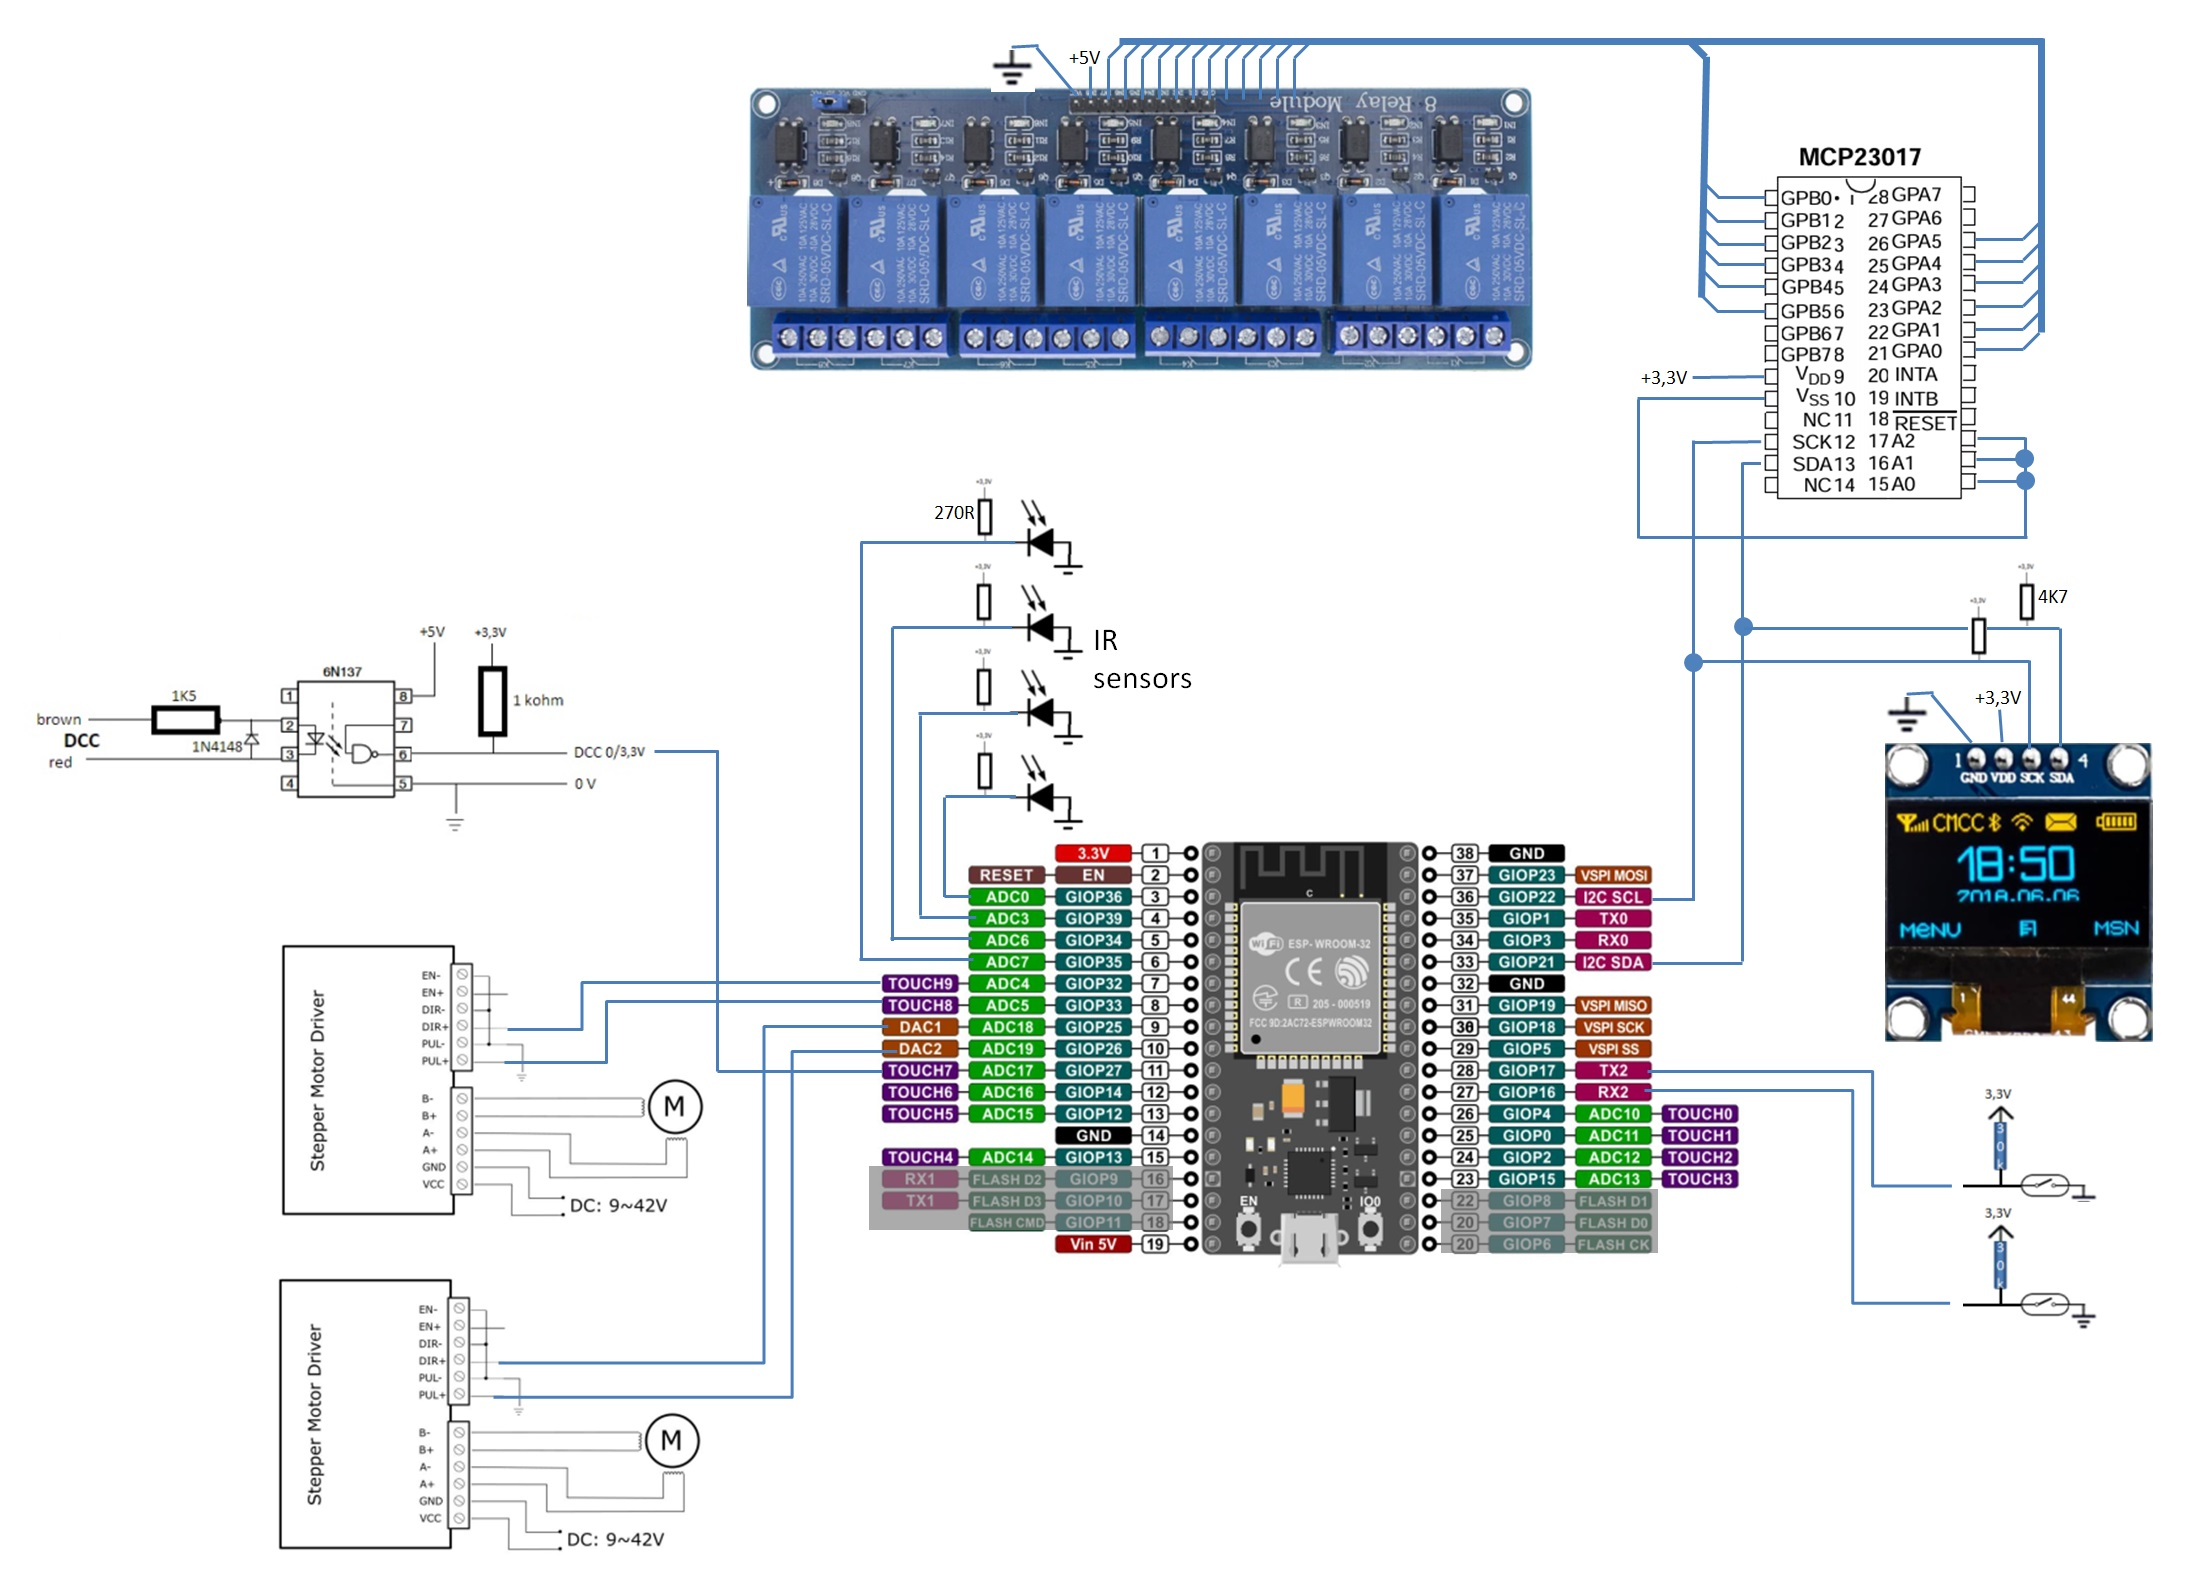
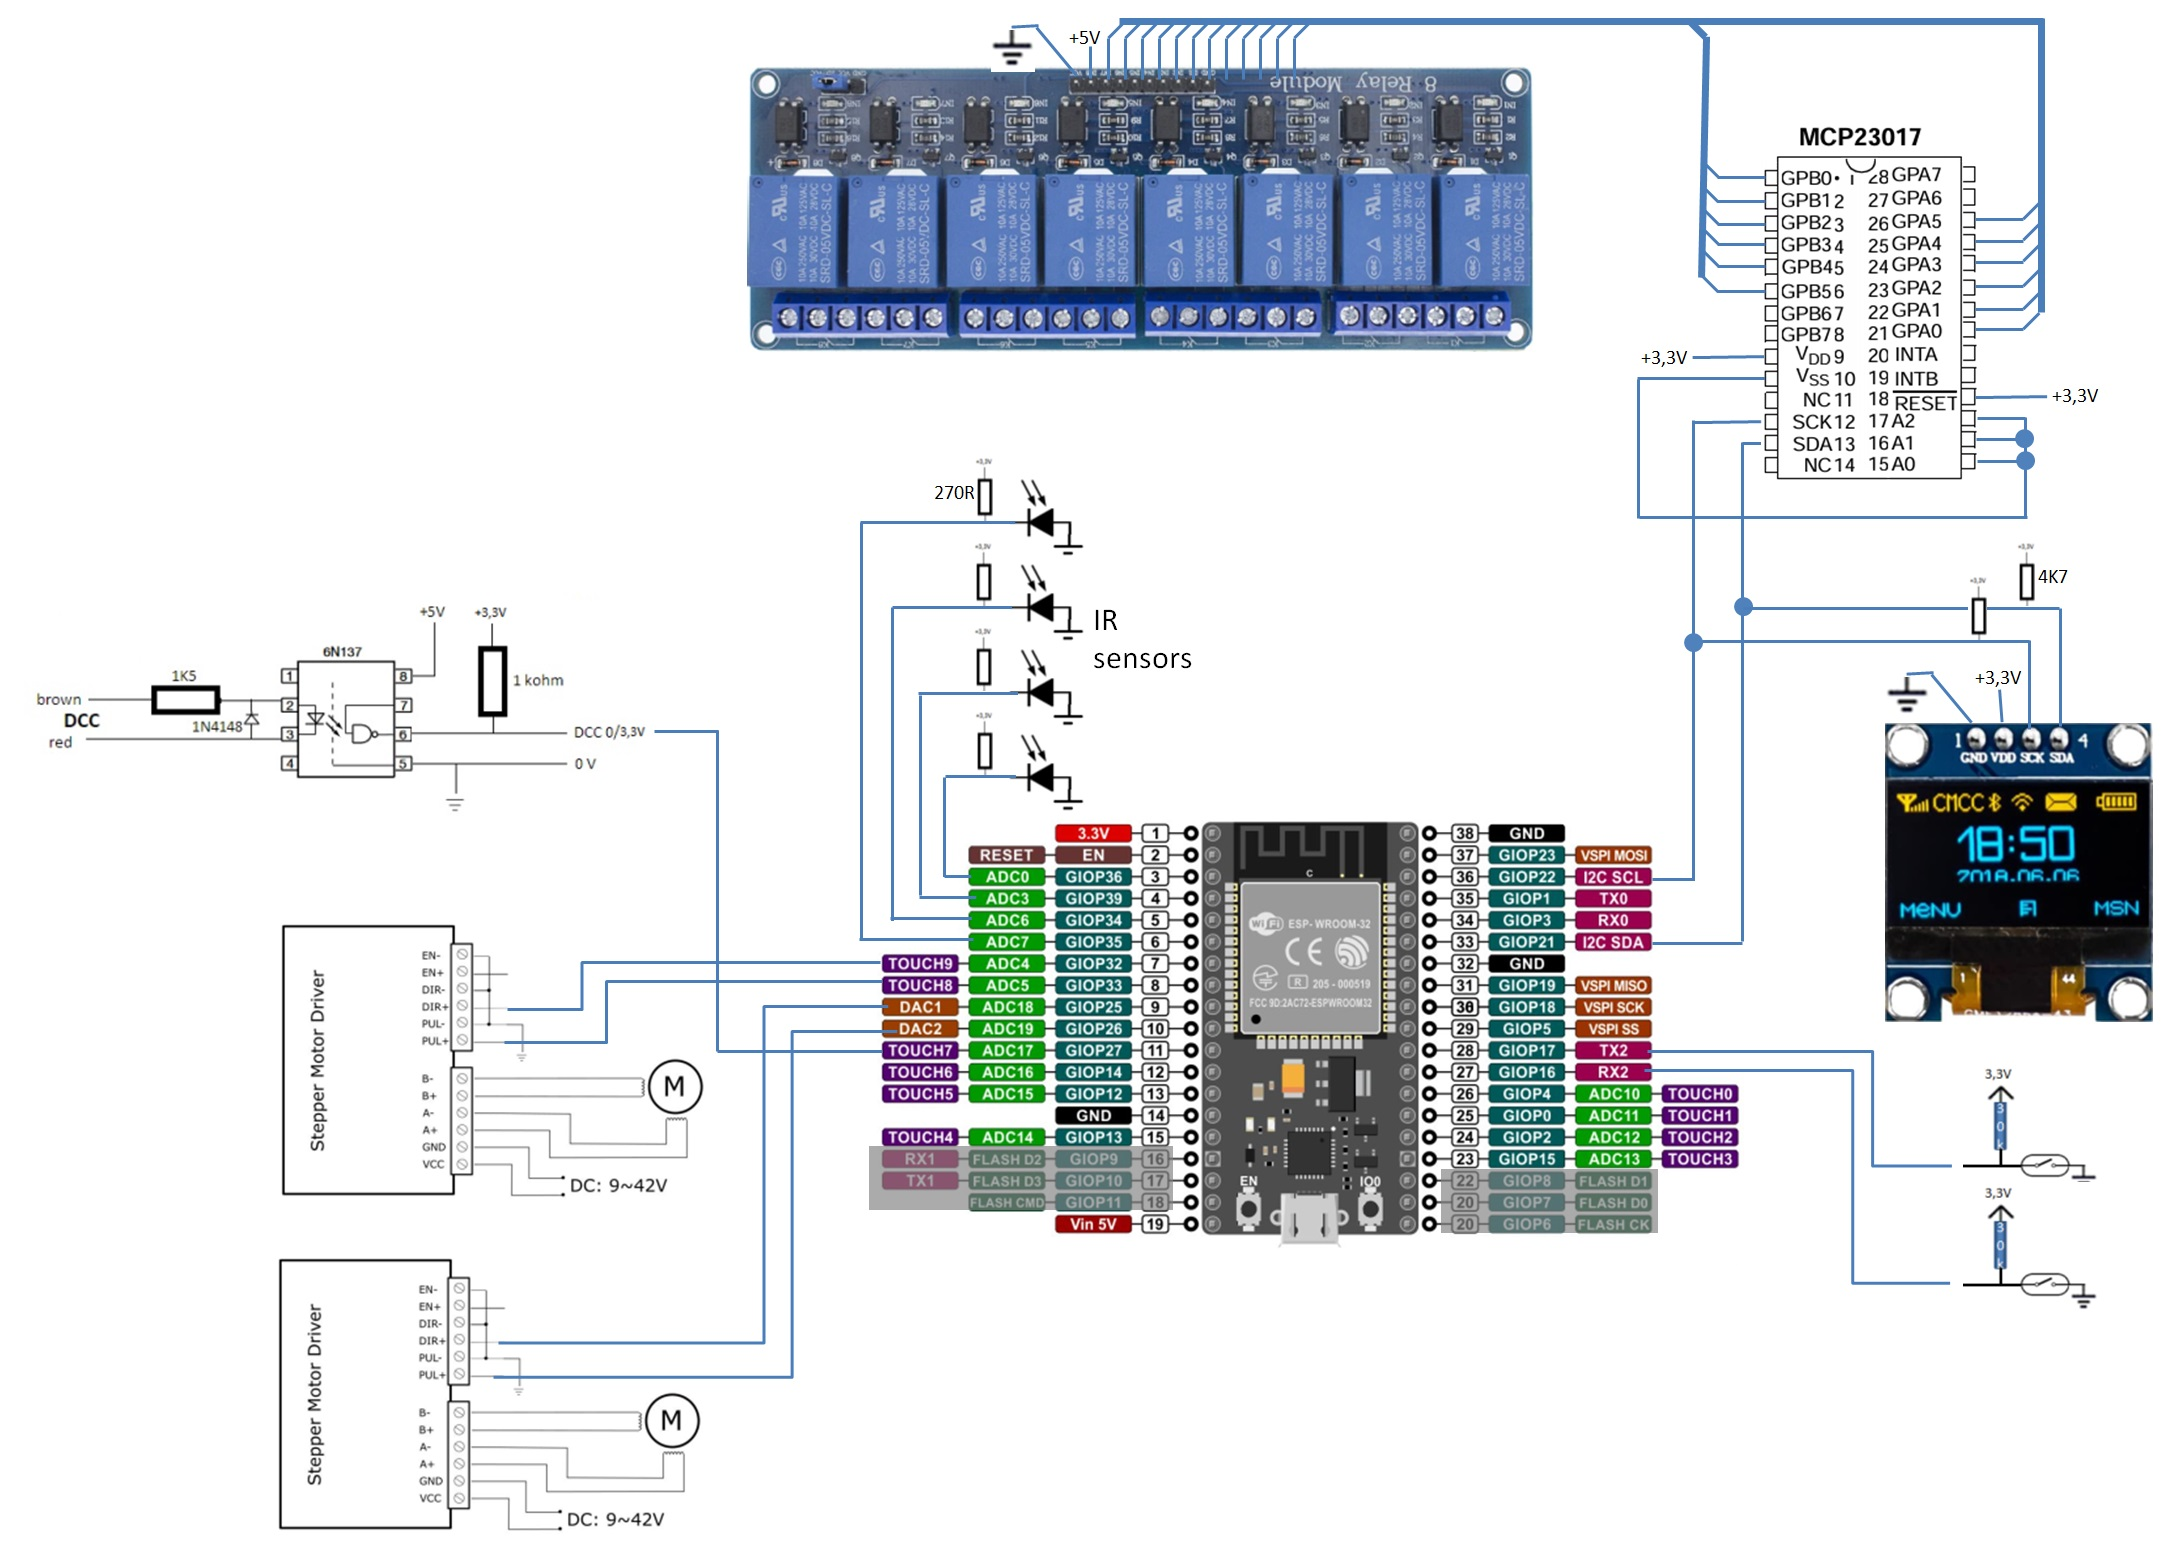
Reset bias added to diagram. Port numbers corrected in SW.

Changed region(s): [[0.0, 0.0, 1.0, 0.9929]]

diff --git a/serial_elevator/Relays.cpp b/serial_elevator/Relays.cpp
@@ -1,6 +1,7 @@
 // The Relays class is giving power only to the track that is currently at portal level
 
 #include "Relays.h"
+#include <Arduino.h>
 
 void Relays::Init () {
   Wire.begin(); // wake up I2C bus
@@ -17,13 +18,17 @@ void Relays::Init () {
 }
 
 void Relays::AtLevel (int Level) {
+  Serial.println("DEBUG Relays::AtLevel");
+  Serial.println(Level);
   unsigned int PortA = 0;
   unsigned int PortB = 0;
-  if (Level > 0 && Level <= 8) {
+  if (Level > 0 && Level <= 6) {
     PortA = 1 << (Level-1);
-  } else if (Level > 8) {
-    PortB = 1 << (Level-9);
+  } else if (Level > 6) {
+    PortB = 1 << (Level-7);
   }
+  Serial.println(PortA);
+  Serial.println(PortB);
   Wire.beginTransmission(0x20);
   Wire.write(0x12); // GPIOA
   Wire.write(PortA); // port A
